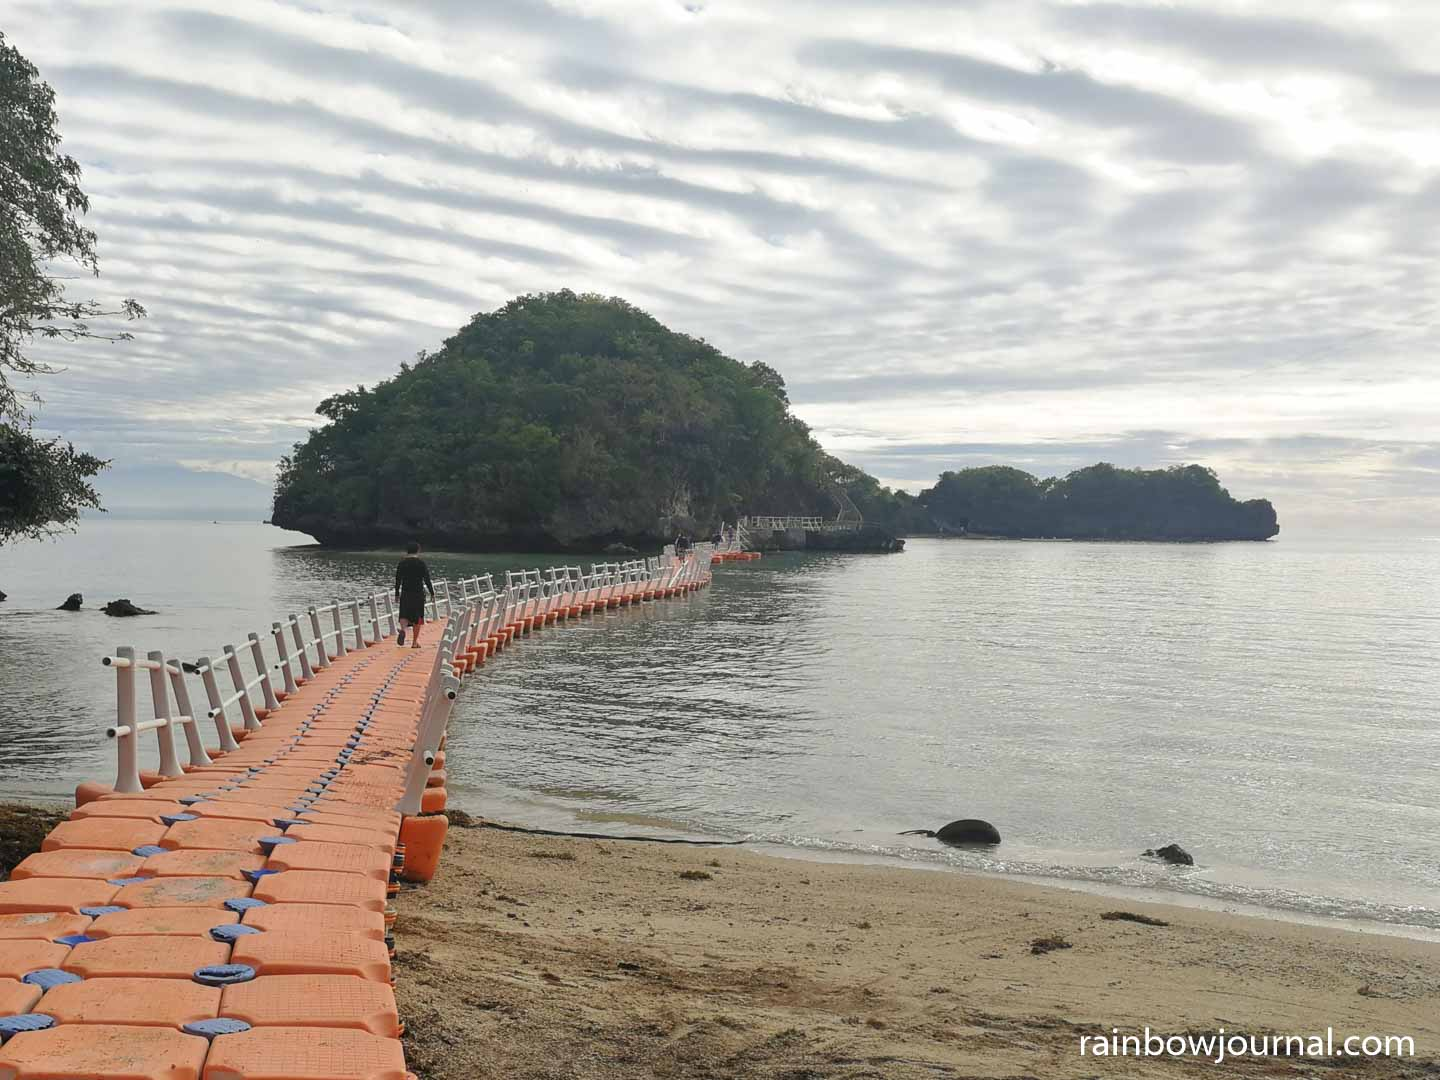
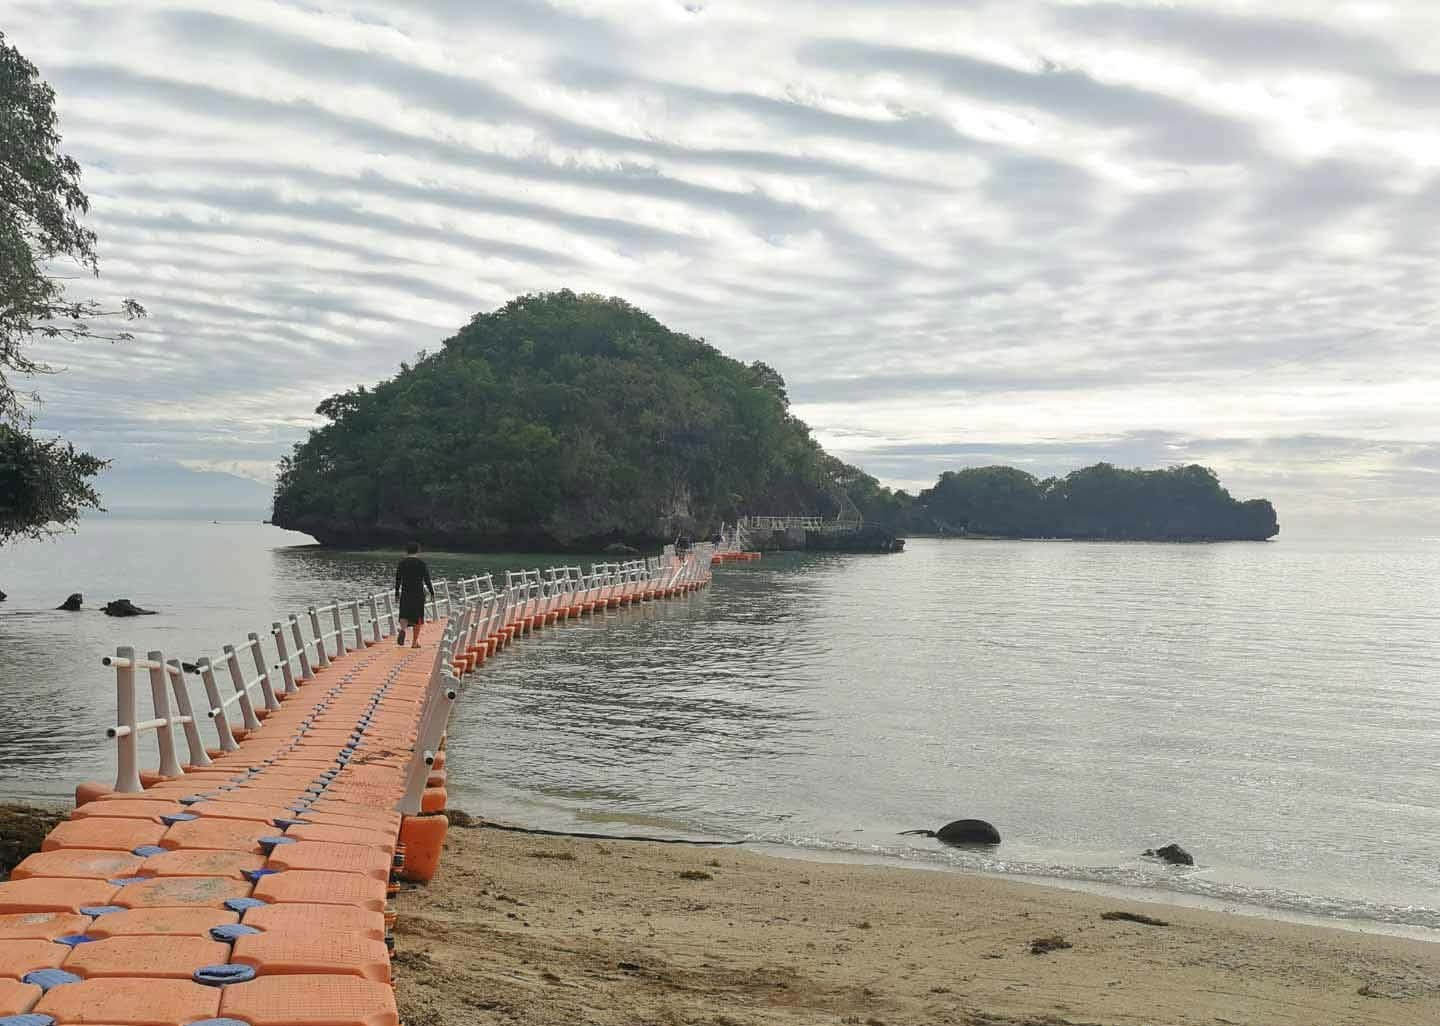
Update website

diff --git a/app/heritage/[siteId]/page.tsx b/app/heritage/[siteId]/page.tsx
@@ -15,7 +15,7 @@ const siteDetails = {
       "/pangasinan-heritage/pangasinan-heritage1.jpg",
       "/pangasinan-heritage/pangasinan-heritage2.jpg",
       "/pangasinan-heritage/pangasinan-heritage3.jpg",
-      "/pangasinan-heritage/pangasinan-heritage5.jpg",
+      "/pangasinan-heritage/pangasinan-heritage4.jpg",
     ],
   },
 
